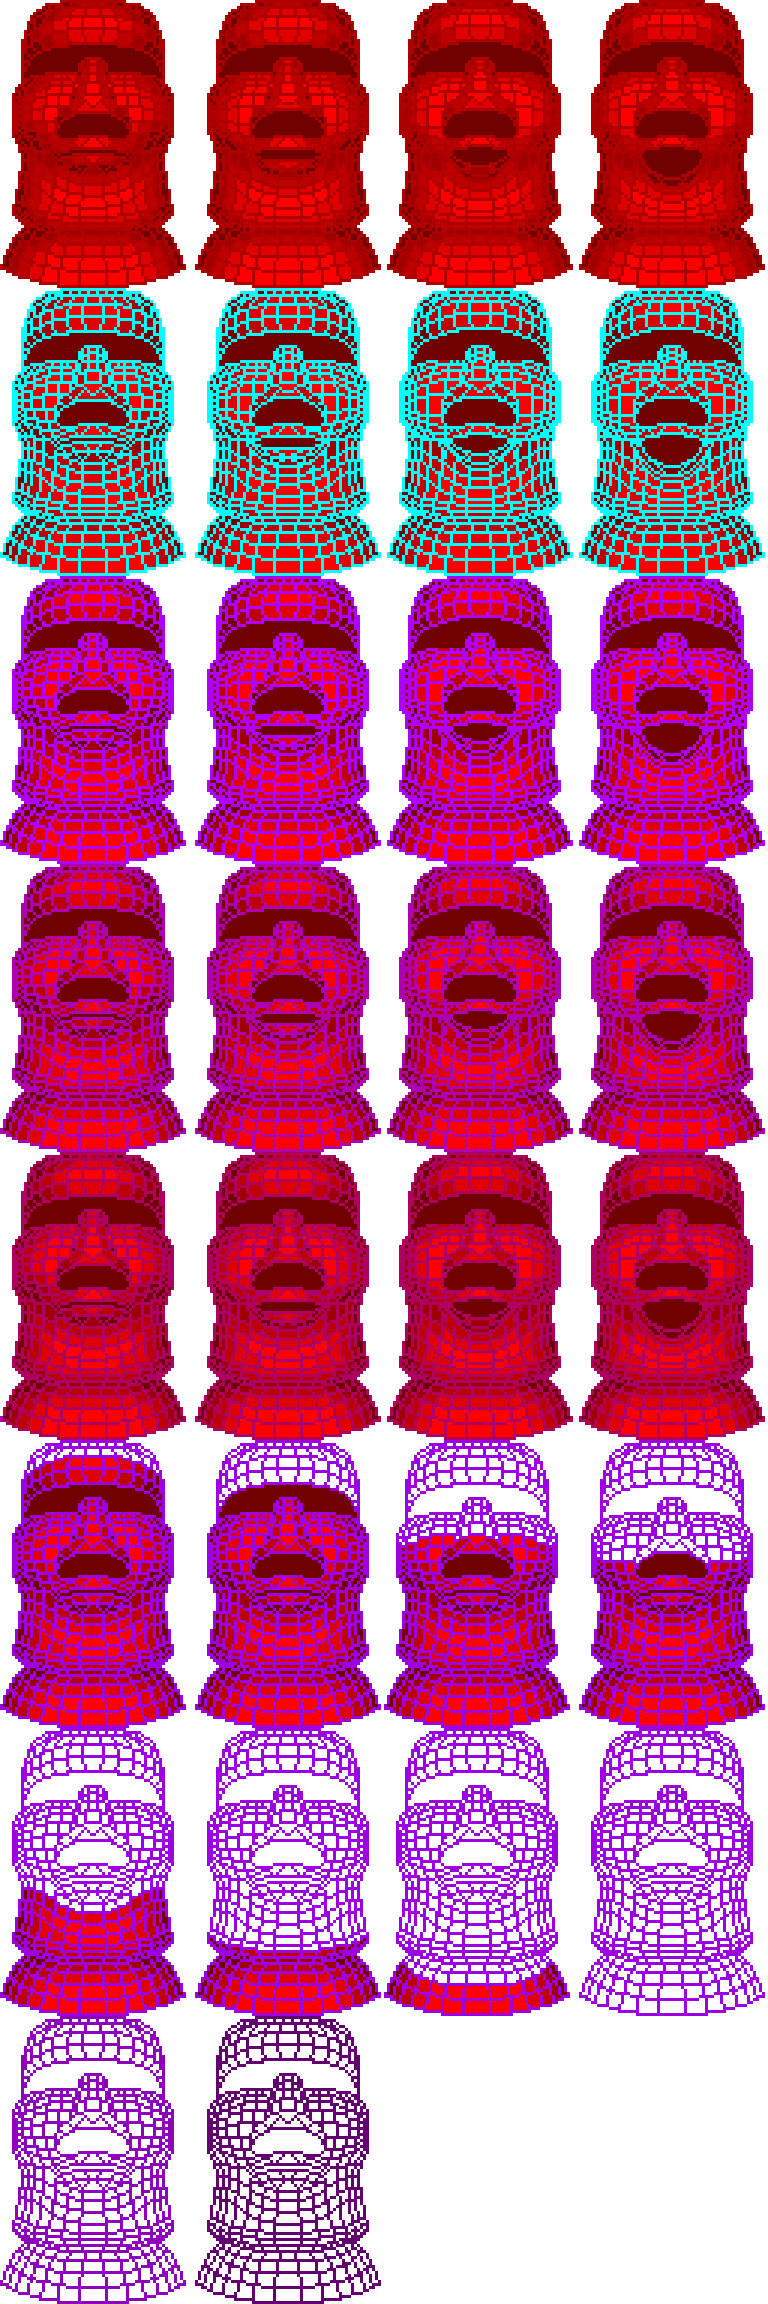
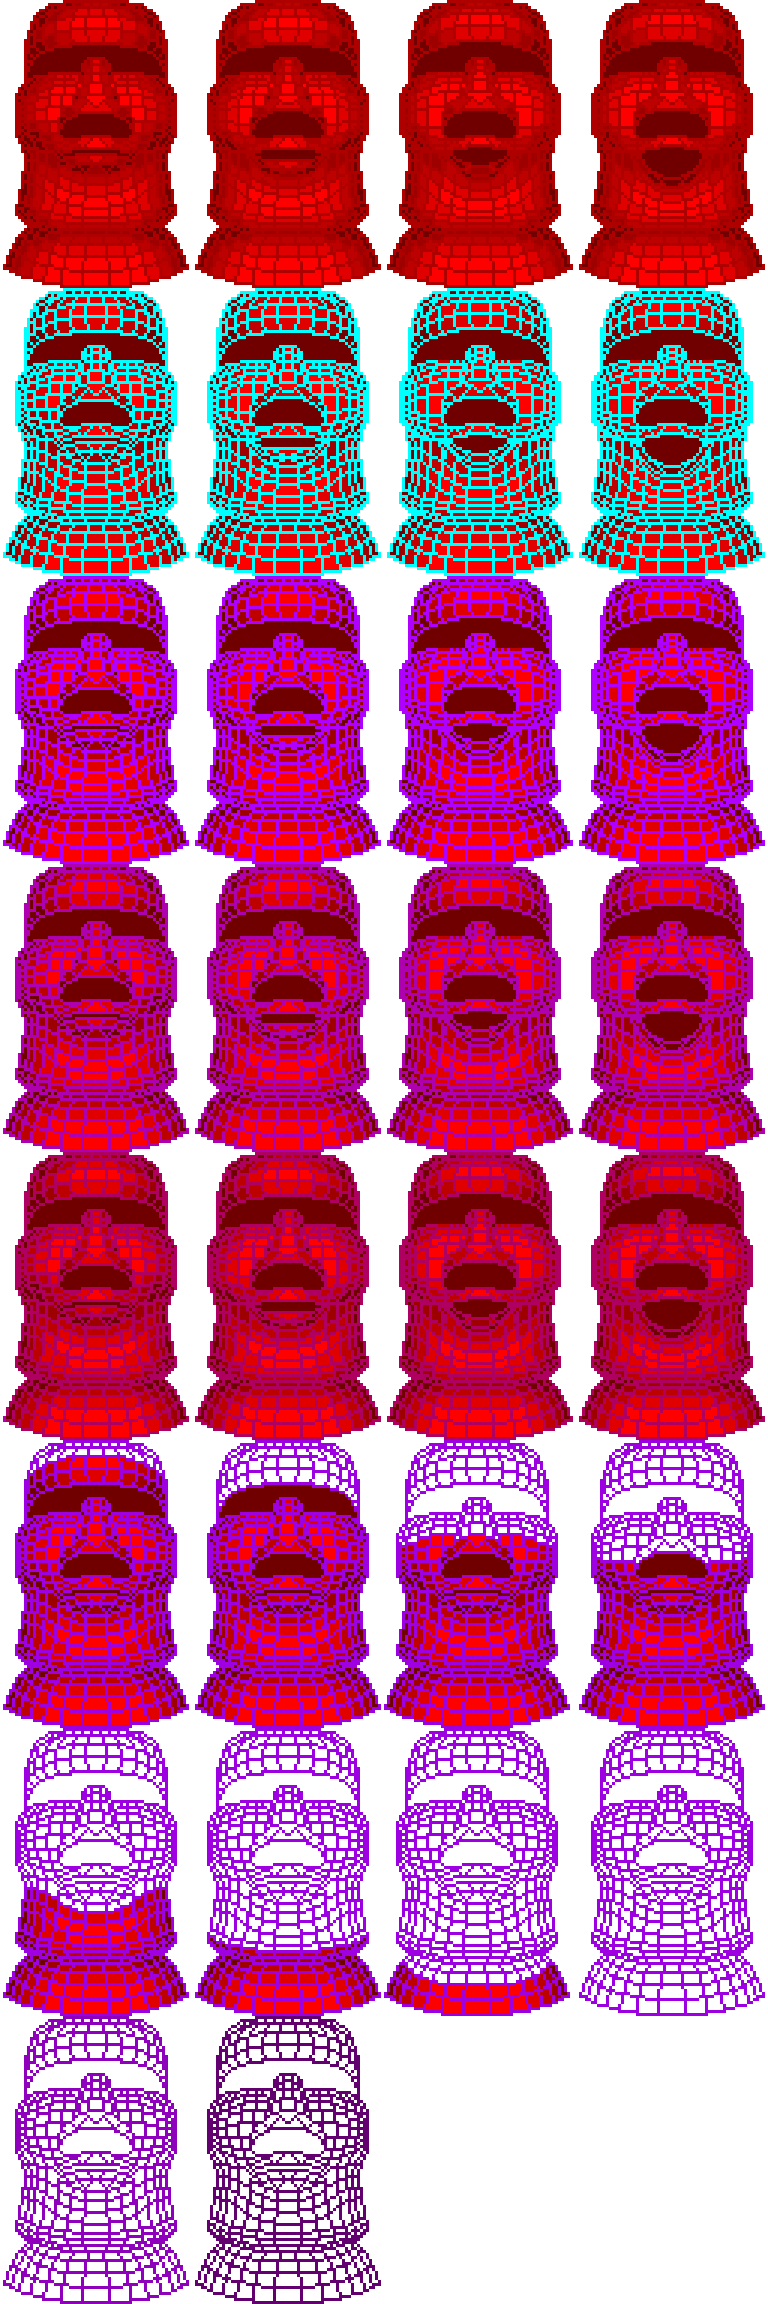
이창준 : 보스 제작중

Changed region(s): [[0.0, 0.0, 0.25, 1.0]]

diff --git a/ContentsProject/Stage_Boss.cpp b/ContentsProject/Stage_Boss.cpp
@@ -2,21 +2,30 @@
 #include "Stage_Boss.h"
 
 #include <EngineCore/Level.h>
+#include <EngineBase/TimeEvent.h>
+#include "GlobalValue.h"
 #include "PlayMap.h"
-#include "Brick.h"
-#include "Ball.h"
 #include "Score.h"
-#include "Player.h"
-#include "PlayerLife.h"
+#include "Brick.h"
+#include "Boss.h"
+#include "Ball.h"
+#include "Text.h"
 #include "Fade.h"
+#include "Number.h"
+#include "Player.h"
+#include "Enemies.h"
 #include "DethLine.h"
+#include "PlayerLife.h"
 #include "ContentsEnum.h"
+#include <EngineBase/EngineFile.h>
+#include <EngineCore/2DCollision.h>
+#include <EngineBase/EngineDirectory.h>
 #include <EnginePlatform/EngineInput.h>
 #include <EngineCore/EngineAPICore.h>
+#include <EngineCore/EngineCoreDebug.h>
 
 AStage_Boss::AStage_Boss()
 {
-
 	//Boss_Brick 144 280
 	//Boss 	243 120
 }
@@ -29,15 +38,20 @@ void AStage_Boss::BeginPlay()
 {
 	Super::BeginPlay();
 
+	//BGMPlayer = UEngineSound::Play("anipang_ingame_wav.wav");
+
+	ABoss* Boss = GetWorld()->SpawnActor<ABoss>();
+	Boss->SetActorLocation({ 336, 312 });
+
 	Vaus = GetWorld()->GetPawn<APlayer>();
 
-	APlayMap* BossStage = GetWorld()->SpawnActor<APlayMap>();
-	BossStage->SetPlayMapType(EPlayMapType::TYPE_BOSS);
+	//APlayMap* Stage1 = GetWorld()->SpawnActor<APlayMap>();
+	//Stage1->SetPlayMapType(static_cast<EPlayMapType>(Stage % 4));
 
 	{
 		AScore* Score = GetWorld()->SpawnActor<AScore>();
 
-		Score->SetTextSpriteName("Text");
+		Score->SetTextSpriteName("Score");
 		Score->SetOrder(ERenderOrder::UI);
 		Score->SetTextScale({ 24, 24 });
 		Score->SetActorLocation({ 156, 36 });
@@ -46,40 +60,168 @@ void AStage_Boss::BeginPlay()
 	{
 		AScore* HighScore = GetWorld()->SpawnActor<AScore>();
 
-		HighScore->SetTextSpriteName("Text");
+		HighScore->SetTextSpriteName("Score");
 		HighScore->SetOrder(ERenderOrder::UI);
 		HighScore->SetTextScale({ 24, 24 });
 		HighScore->SetActorLocation({ 396, 36 });
 	}
 
+	{
+		//Text1 = GetWorld()->SpawnActor<AText>();
+		//
+		//Text1->SetTextSpriteName("Text");
+		//Text1->SetOrder(ERenderOrder::UI);
+		//Text1->SetTextScale({ 24, 24 });
+		//Text1->SetActorLocation({ 350, 524 });
+		//Text1->SetText("ROUND");
+		//
+		//Text2 = GetWorld()->SpawnActor<ANumber>();
+		//
+		//Text2->SetNumberSpriteName("Number");
+		//Text2->SetOrder(ERenderOrder::UI);
+		//Text2->SetNumberScale({ 24, 24 });
+		//Text2->SetActorLocation({ 419, 524 });
+		//Text2->SetNumber(Stage);
+		//
+		//Text3 = GetWorld()->SpawnActor<AText>();
+		//
+		//Text3->SetTextSpriteName("Text");
+		//Text3->SetOrder(ERenderOrder::UI);
+		//Text3->SetTextScale({ 24, 24 });
+		//Text3->SetActorLocation({ 380, 572 });
+		//Text3->SetText("READY");
+	}
+	//AEnemies* Enemies = GetWorld()->SpawnActor<AEnemies>();
+	//Enemies->SetActorLocation({ 50,50 });
+
 	ADethLine* DethLineActor = GetWorld()->SpawnActor<ADethLine>();
 
-	ABall* BallActor = GetWorld()->SpawnActor<ABall>();
-
-	//Vaus->SetBall(BallActor);
-
-	APlayerLife* PlayerLifeActor = GetWorld()->SpawnActor<APlayerLife>();
-	PlayerLifeActor->SetBall(BallActor);
+	PlayerLifeActor = GetWorld()->SpawnActor<APlayerLife>();
 	PlayerLifeActor->SetDethLine(DethLineActor);
-	PlayerLifeActor->BallList.push_back(BallActor);
 
 	Vaus->SetPlayerLife(PlayerLifeActor);
+
+	//Text1->SetActive(false);
+	//Text2->SetActive(false);
+	//Text3->SetActive(false);
+	//Vaus->SetActive(false);
+	//BallActor->SetActive(false);
+
+	//LoadBrick(Stage, PlayerLifeActor);
 }
 
 void AStage_Boss::Tick(float _DeltaTime)
 {
 	Super::Tick(_DeltaTime);
 
-	if (true == UEngineInput::GetInst().IsDown('N'))
+	UEngineDebug::CoreOutPutString("BossHP : " + std::to_string(BossHP));
+	CountTime += _DeltaTime;
+
+	//Text1->SetActive(Timer(CountTime, 0.5f, 1.5f));
+	//Text2->SetActive(Timer(CountTime, 0.5f, 1.5f));
+	//Text3->SetActive(Timer(CountTime, 1.0f, 1.5f));
+
+	if (true != StageSetting)
 	{
-		UEngineAPICore::GetCore()->OpenLevel("Stage_032");
+		Map = GetWorld()->SpawnActor<APlayMap>();
+		Map->SetPlayMapType(EPlayMapType::TYPE_BOSS);
+		//LoadBrick(Stage, PlayerLifeActor);
+		StageSetting = true;
 	}
 
-	/*if (true == UEngineInput::GetInst().IsDown('M'))
+	if (true == Timer(CountTime, 2.0f) && true == Vaus->GetStartSwitch())
 	{
-		UEngineAPICore::GetCore()->OpenLevel("Stage_003");
-	}*/
+		Vaus->SetStartSwitch(false);
+		ActorSpawn();
+	}
+
+	//if (0 == BrickList.size())
+	//{
+	//	StageResetSetting(1);
+	//	TimeEventer.PushEvent(1.0f, []()
+	//		{
+	//			UEngineAPICore::GetCore()->OpenLevel("Stage_Dark");
+	//		});
+	//}
+
+	if (true == UEngineInput::GetInst().IsDown('N'))
+	{
+		if (1 != Stage)
+		{
+			StageResetSetting(-1);
+
+			UEngineAPICore::GetCore()->OpenLevel("Stage_Dark");
+		}
+		else
+		{
+			StageResetSetting(0);
+
+			UEngineAPICore::GetCore()->OpenLevel("Title");
+		}
+	}
+
+	if (true == UEngineInput::GetInst().IsDown('M'))
+	{
+		if (32 != Stage)
+		{
+			StageResetSetting(1);
+
+			UEngineAPICore::GetCore()->OpenLevel("Stage_Dark");
+		}
+		else
+		{
+			StageResetSetting(0);
+
+			UEngineAPICore::GetCore()->OpenLevel("Stage_Boss");
+		}
+	}
 }
 
+void AStage_Boss::ActorSpawn()
+{
+	Vaus->SetActive(true);
+	Vaus->GetCollisionComponent()->SetActive(true);
+	BallActor = GetWorld()->SpawnActor<ABall>();
+	PlayerLifeActor->SetBall(BallActor);
+	PlayerLifeActor->BallList.push_back(BallActor);
+}
 
+bool AStage_Boss::Timer(float _CountTime, float _SetTime, float _EndTime)
+{
+	if (_SetTime < _CountTime && _EndTime > _CountTime)
+	{
+		return true;
+	}
+	return false;
+}
 
+bool AStage_Boss::Timer(float _CountTime, float _SetTime)
+{
+	if (_SetTime < _CountTime)
+	{
+		return true;
+	}
+	return false;
+}
+
+void AStage_Boss::StageResetSetting(int _StageCount)
+{
+	Stage += _StageCount;
+	StageSetting = false;
+	Vaus->SetStartSwitch(true);
+	Vaus->SetActive(false);
+	Vaus->ChangeState(PlayerState::Create);
+	CountTime = 0.0f;
+	//BrickList.clear();
+	Map->Destroy();
+	Text2->SetNumber(Stage);
+	Vaus->BulletPtr.clear();
+	std::list<ABall*>::iterator BalliterStart = PlayerLifeActor->BallList.begin();
+	std::list<ABall*>::iterator BalliterEnd = PlayerLifeActor->BallList.end();
+	for (; BalliterStart != BalliterEnd; )
+	{
+		(*BalliterStart)->Destroy();
+		(*BalliterStart) = nullptr;
+		BalliterStart = PlayerLifeActor->BallList.erase(BalliterStart);
+	}
+}

diff --git a/ContentsProject/Boss.cpp b/ContentsProject/Boss.cpp
@@ -13,10 +13,11 @@ ABoss::ABoss()
 	SpriteRenderer1 = CreateDefaultSubObject<USpriteRenderer>();
 	SpriteRenderer1->SetComponentScale({ 192, 288 });
 	SpriteRenderer1->SetOrder(ERenderOrder::ENEMIES);
-	SpriteRenderer1->CreateAnimation("Boss_Normal", "Boss.png", 0, 3, 0.2f);
+	SpriteRenderer1->CreateAnimation("Boss_Normal", "Boss.png", 0, 3, 0.1f);
 	SpriteRenderer1->CreateAnimation("Boss_Hit", "Boss.png", 4, 7, 0.2f);
 	SpriteRenderer1->CreateAnimation("Boss_Dying", "Boss.png", 8, 19, 0.2f);
 	SpriteRenderer1->CreateAnimation("Boss_Death", "Boss.png", 20, 29, 0.2f);
+	SpriteRenderer1->CreateAnimation("Boss_RNormal", "Boss.png", 3, 0, 0.1f);
 
 	SpriteRenderer1->ChangeAnimation("Boss_Normal");
 
@@ -24,7 +25,8 @@ ABoss::ABoss()
 	SpriteRenderer2->SetSprite("Boss_Brick.png");
 	SpriteRenderer2->SetComponentScale({ 144, 280 });
 	SpriteRenderer2->SetOrder(ERenderOrder::BACKGROUND);
-	
+	SpriteRenderer2->SetComponentLocation(SpriteRenderer2->GetComponentLocation());
+
 	CollisionComponent = CreateDefaultSubObject<U2DCollision>();
 	CollisionComponent->SetComponentLocation({ 0, 0 });
 	CollisionComponent->SetComponentScale({ 144, 280 });

diff --git a/ContentsProject/Stage.cpp b/ContentsProject/Stage.cpp
@@ -141,7 +141,7 @@ void AStage::Tick(float _DeltaTime)
 	if (0 == BrickList.size())
 	{
 		StageResetSetting(1);
-		TimeEventer.PushEvent(0.5f, []()
+		TimeEventer.PushEvent(1.0f, []()
 			{
 				UEngineAPICore::GetCore()->OpenLevel("Stage_Dark");
 			});

diff --git a/ContentsProject/Boss.h b/ContentsProject/Boss.h
@@ -21,6 +21,7 @@ public:
 
 	FVector2D Dir = { 0.f , 0.f };
 
+
 protected:
 
 private:
